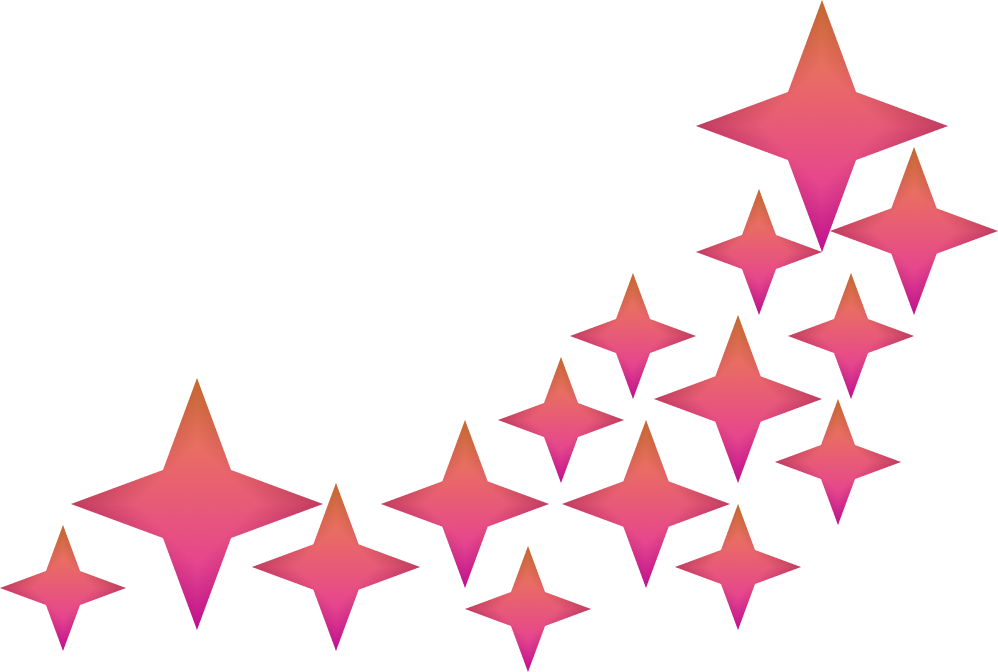
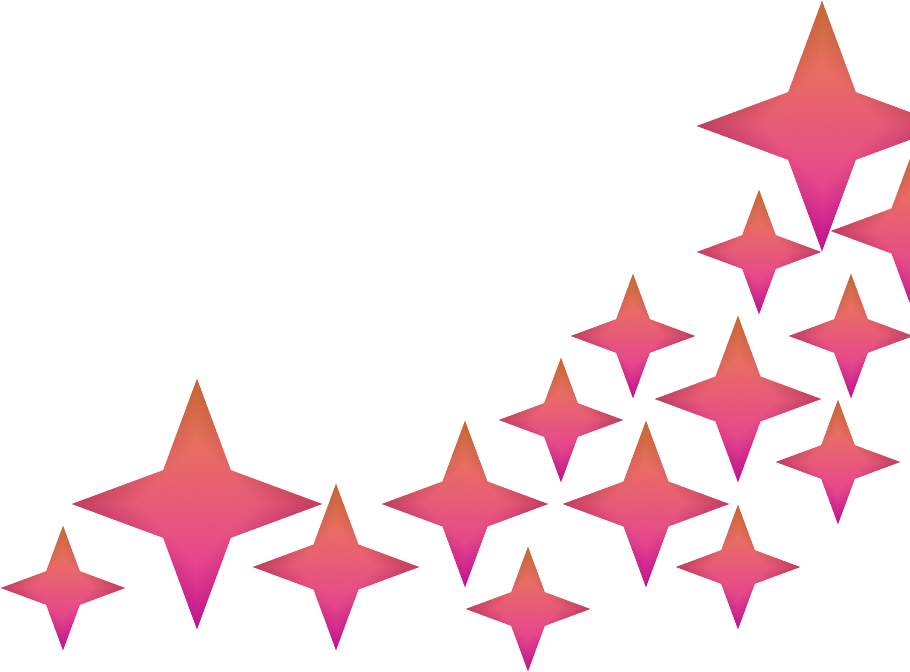
novo commit

diff --git a/src/components/pages/layouts/Projetos/styles.modules.scss b/src/components/pages/layouts/Projetos/styles.modules.scss
@@ -1,0 +1,100 @@
+.containerprojetos {
+    height: 85vh;
+    width: 100%;
+    background-color: #f1e2fb;
+    display: flex;
+    flex-direction: column;
+    align-items: center;
+    position: relative; 
+
+    .tituloproj {
+        width: 100%;
+        display: flex;
+        justify-content: flex-end;
+        position: relative;
+
+        .titulo {
+            display: flex;
+            align-items: center;
+            position: absolute;
+            top: -70px;
+            right: 10rem;
+
+            h2 {
+                font-size: 3rem;
+                margin: 0 1rem;
+            }
+
+            .linha {
+                width: 17rem;
+                height: 0.2rem;
+                background-color: #fc32b8;
+            }
+        }
+    }
+
+    .projetos {
+        display: flex;
+        align-items: center;
+        justify-content: center;
+        gap: 3rem;
+        margin-top: 5rem;
+        background-color: #f1e2fb;
+
+        z-index: 2;
+
+        a {
+            display: block;
+            position: relative;
+            text-align: center;
+
+            img {
+                height: 22rem;
+                width: 17rem;
+                display: block;
+                transition:
+                    transform 0.7s,
+                    opacity 0.7s;
+                opacity: 0.7;
+            }
+
+            .projeto-text {
+                position: absolute;
+                width: 15rem;
+                text-wrap: wrap;
+                top: 85%;
+                left: 50%;
+                transform: translate(-50%, -50%);
+                font-size: 2rem;
+                color: rgb(0, 0, 0);
+                transition: opacity 0.7s ease;
+            }
+
+            &:hover .projeto-text {
+                opacity: 0;
+            }
+
+            &:hover img {
+                transform: scale(1.1);
+                opacity: 1;
+            }
+        }
+    }
+
+    .endproj {
+        position: absolute;
+        bottom: 1rem;
+        right: 1.33rem; 
+        transform: translate(5%, 5%); 
+
+        width: 27rem; 
+        height: 20rem; 
+
+        img {
+            width: 100%;
+            height: 100%;
+            object-fit: cover;
+
+        }
+    }
+}

diff --git a/src/components/pages/layouts/Projetos/index.jsx b/src/components/pages/layouts/Projetos/index.jsx
@@ -1,13 +1,41 @@
 import './styles.modules.scss';
 
-function Projetos () {
+import imageTwitch from '../../../../assets/twitch.jpg';
+import imageCafe from '../../../../assets/cafe.jpg';
+import imageDesenho from '../../../../assets/desenho.jpg';
+import imageEstrelasproj from '../../../../assets/Estrelas divisão de página.png';
 
-    return(
-        <div className="projetos">
-            
+function Projetos() {
+    return (
+        <div className="containerprojetos">
+            <div className="tituloproj">
+                <div className="titulo">
+                    <div className="linha"></div>
+                    <h2>Projetos</h2>
+                    <div className="linha"></div>
+                </div>
+            </div>
+
+            <div className="projetos">
+                <a href="https://www.behance.net/gallery/202702233/Overlay-Twitch-Mabizinha" target="_blank" rel="noopener noreferrer">
+                    <img src={imageTwitch} alt="Twitch" />
+                    <span className="projeto-text">Overlay Twitch</span>
+                </a>
+                <a href="https://www.behance.net/gallery/174656797/Les-Mots-Et-les-Caf-e-Livraria" target="_blank" rel="noopener noreferrer">
+                    <img src={imageCafe} alt="Cafe" />
+                    <span className="projeto-text">Les Mots Et les</span>
+                </a>
+                <a href="https://www.behance.net/gallery/190251281/Arte-para-o-Toshiruz" target="_blank" rel="noopener noreferrer">
+                    <img src={imageDesenho} alt="Desenho" />
+                    <span className="projeto-text">Arte para o Toshiruz</span>
+                </a>
+            </div>
+
+            <div className="endproj">
+            <img src={imageEstrelasproj} alt="Desenho" />
+            </div>
         </div>
-    )
-
+    );
 }
 
-export default Projetos
+export default Projetos;

diff --git a/src/components/pages/layouts/Sobre/styles.modules.scss b/src/components/pages/layouts/Sobre/styles.modules.scss
@@ -70,4 +70,11 @@
             }
         }
     }
+
+    @media screen and (min-width: 800px) {
+        .img {
+            width: 70rem;
+            height: 5rem;
+        }
+    }
 }

diff --git a/src/styles/globals.scss b/src/styles/globals.scss
@@ -6,6 +6,7 @@
     padding: 0;
     box-sizing: border-box;
 }
+
 header{
     font-family: 'Italiana', serif;
 
